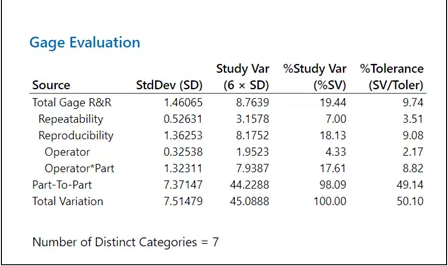
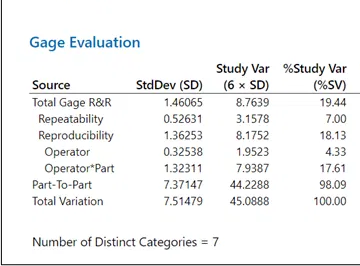
Remove tolerance metric from Gage R&R results

diff --git a/projects/six-sigma-green-belt.html b/projects/six-sigma-green-belt.html
@@ -73,7 +73,7 @@
       <div class="data-note">The graphical output is interpreted qualitatively and is not expected to match the numerical report below.</div>
       <div class="chart-point"><h4>R Chart by Operator · Range</h4><p>The R chart shows the range of repeated measurements, and most points remain below the UCL, indicating consistent repeatability across operators. One point near the A/B boundary should be checked for a part, technique, or data-entry issue.</p></div>
       <div class="chart-point"><h4>X̄ Chart by Operator · Mean</h4><p>Unlike a normal control chart, points outside the narrow X̄ limits are desirable because they show that the gage can distinguish among parts. Here, many points fall outside the limits and the operators follow similar patterns, indicating good discrimination.</p></div>
-      <div class="chart-point"><h4>Components of Variation</h4><p>The red, blue, and yellow bars compare percent contribution, percent study variation, and percent tolerance. The dominant Part-to-Part bars show that real differences among samples outweigh measurement-system variation.</p></div>
+      <div class="chart-point"><h4>Components of Variation</h4><p>The Components of Variation chart compares Gage R&amp;R, repeatability, reproducibility, and part-to-part variation. The dominant Part-to-Part bars show that real differences among samples outweigh measurement-system variation.</p></div>
       <div class="chart-point"><h4>Part × Operator · Reproducibility</h4><p>The lines follow similar shapes and remain fairly close, showing general agreement. Small separations suggest some operator bias that a standardized method could reduce.</p></div>
     </div>
   </div>
@@ -85,7 +85,7 @@
       <h3>Gage Evaluation</h3>
       <div class="result-callout"><div class="value">19.44%</div><div class="state">Conditionally Acceptable</div><p>Total Gage R&amp;R falls within the 10–30% band. The system may be used when its intended application and limitations are documented.</p></div>
       <ul class="result-stats">
-        <li><strong>9.74%</strong><span>of tolerance is consumed by the measurement system.</span></li>
+        <li><strong>19.44%</strong><span>Total Gage R&amp;R as a percentage of study variation.</span></li>
         <li><strong>7.00%</strong><span>repeatability variation; comparatively low.</span></li>
         <li><strong>18.13%</strong><span>reproducibility variation; the larger concern.</span></li>
         <li><strong>98.09%</strong><span>part-to-part study variation; real sample differences dominate.</span></li>
@@ -94,7 +94,7 @@
       <h4 class="justification-title">Why I Would Accept It for This Study</h4>
       <ul class="justification-list">
         <li>It is being used for process-improvement screening, not as the sole final-release decision.</li>
-        <li>The measurement error occupies less than 10% of the tolerance window.</li>
+        <li>Total Gage R&amp;R is 19.44%, placing the system within the conditional acceptance range.</li>
         <li>nDC = 7 provides adequate separation among the sampled parts.</li>
         <li>Operator variation can be managed through training, a defined datum, consistent fixturing, and a repeat MSA.</li>
       </ul>
